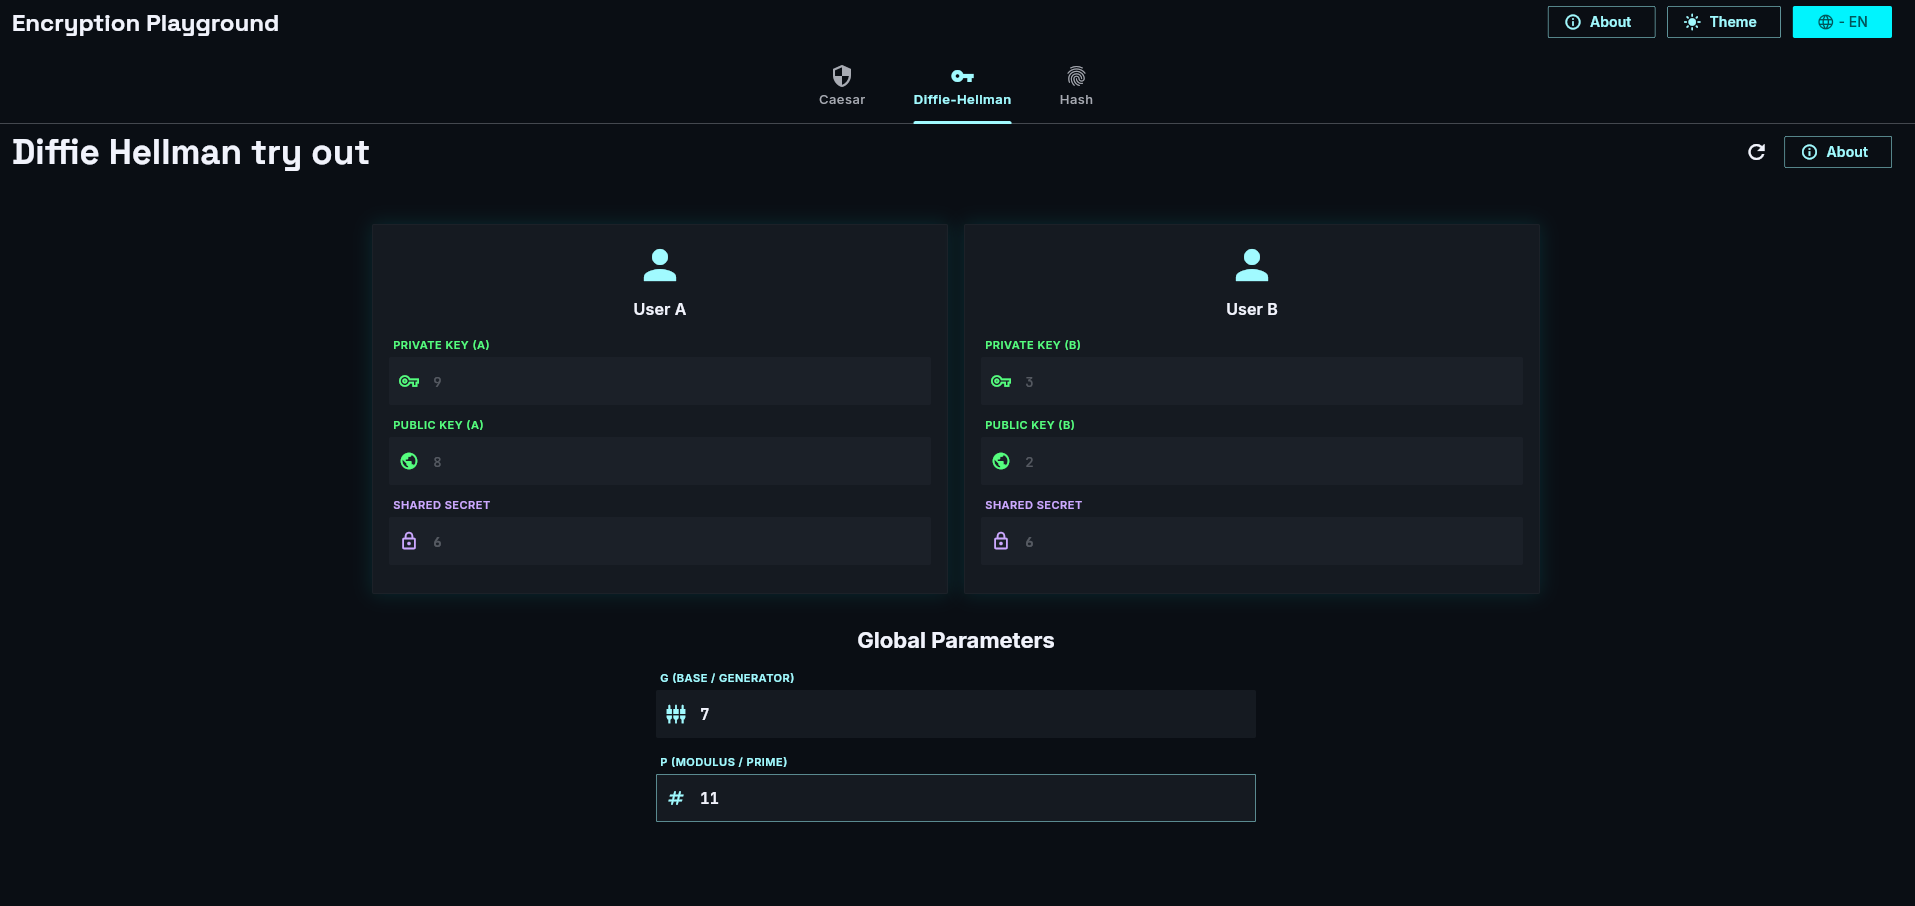
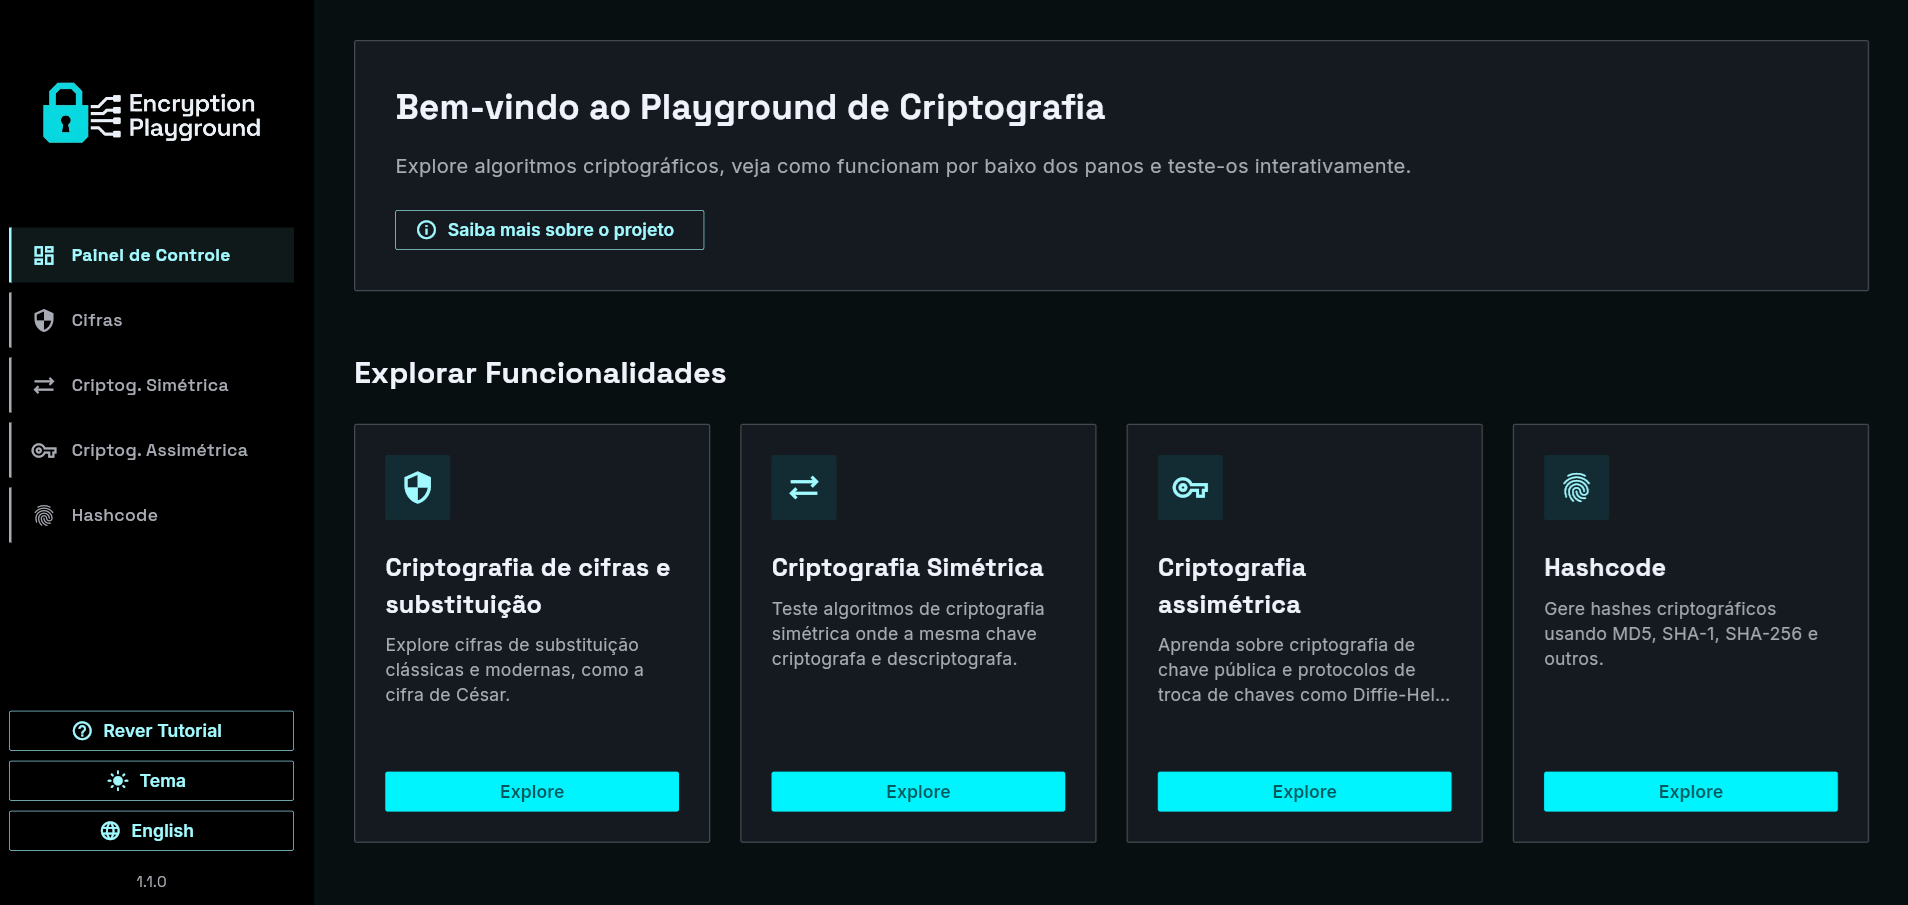
Correções nas documentações oficiais

diff --git a/README.md b/README.md
@@ -1,21 +1,23 @@
-# Encryption Playground - Overview
+# Encryption Playground 🔐
+
+[🇺🇸 English](README.md) | [🇧🇷 Português](README-PT.md)
 
 Encryption Playground is an educational Flutter application designed to demonstrate fundamental cryptographic concepts through interactive experiences. It provides users with a hands-on laboratory to experiment with historical and modern encryption algorithms.
 
-# Project Motivation
+For detailed technical information on how the Flutter project is structured, please see the [Flutter Project README](encryption_playground/README.md).
 
-During a Data Security class, the students were challenged to develop an implementation of the  Caesar Cipher in any framework of their preferences. During the development of the Caesar algorithm, the idea of an education app containing more encryption algorithms came up, and then I developed this simple and small App. 
+## Project Motivation
 
-# Features
+During a Data Security class, the students were challenged to develop an implementation of the Caesar Cipher in any framework of their preference. During the development of the Caesar algorithm, the idea of an education app containing more encryption algorithms came up, and then I developed this simple and small App.
+
+## Features
 
 ### 1. Caesar Cipher
-
 - **Educational Content**: Information about the history and mechanics of the Julius Caesar substitution cipher.
 - **Interactive Simulation**: Encrypt and decrypt messages using custom shift keys.
 - **Real-time Feedback**: Immediate visualization of character transformations.
 
 ### 2. Diffie-Hellman Key Exchange
-
 - **Core Concept**: Demonstration of how two parties (User A & User B) establish a shared secret over an insecure channel.
 - **Interactive Simulation**:
     - Configuration of global parameters (Generator and Modulus).
@@ -23,7 +25,6 @@ During a Data Security class, the students were challenged to develop an impleme
     - Verification of the shared secret derivation on both sides.
 
 ### 3. Hash Functions
-
 - **Integrity Verification**: Comparison of inputs to demonstrate the "Avalanche Effect" (where small input changes result in vastly different outputs).
 - **Algorithm Comparison**: Support for multiple hashing methods including:
     - Default Dart HashCode
@@ -31,12 +32,11 @@ During a Data Security class, the students were challenged to develop an impleme
     - SHA-256
 
 ### 4. User Interface and Experience
-
 - **Dynamic Theming**: Full implementation of Dark Mode (Primary) and Light Mode (Secondary) based on structured design tokens.
 - **Internationalization**: Seamless switching between English and Portuguese (PT-BR).
 - **Responsive Design**: Clean, tab-based navigation optimized for mobile and desktop views.
 
-# Concepts Covered
+## Concepts Covered
 
 - Symmetric Encryption
 - Key Exchange Protocols
@@ -44,38 +44,12 @@ During a Data Security class, the students were challenged to develop an impleme
 - Avalanche Effect
 - Data Integrity vs Confidentiality
 
-# Technical Stack
+## How to Run
 
-The project leverages modern Flutter development patterns and libraries:
+You can access the Vercel website: [https://flutter-encryption-playground.vercel.app/](https://flutter-encryption-playground.vercel.app/).
+Or you can clone into your remote and test on a mobile emulator by running the code inside the `encryption_playground` directory.
 
-- **State Management**: Implemented using the **Provider** package for efficient reactive updates.
-- **Architecture**: Follows **Feature-First** and **Clean Architecture** patterns, separating the codebase into Domain and Presentation layers.
-- **Domain Logic**: Use of **Use Cases** to encapsulate business rules and encryption algorithms, promoting testability and reusability.
-- **Internationalization (i18n)**: Utilizes `flutter_localizations` and ARB files for multi-language support.
-- **Theme Management**: centralized `ThemeData` configuration consuming custom [AppColors](lib/app/theme/app_colors.dart) tokens for consistent styling across brightness modes.
-- **Navigation**: Structured using **Navigator 1.0** with feature-scoped **Navigation Services** to decouple UI from routing logic.
-- **Dependency Injection**: Basic dependency management via Provider and bootstrap injectors.
-- **Input Handling**: Robust handling of hardware and software keyboards with form validation and real-time text processing.
-
-# Project Structure
-
-```
-lib/
-├── app/                # Core configuration (Theme, Locale, Routes, Bootstrap)
-├── features/           # Feature-based modular architecture
-│   ├── caesar/         # Caesar Cipher implementation
-│   ├── diffie_hellman/ # Key exchange simulation logic
-│   ├── hash/           # Hashing algorithms and comparison tools
-│   └── home/           # Root navigation and dashboard
-└── l10n/               # ARB localization resources
-```
-
-# How to Run
-
-You can acess the vercel website: [https://flutter-encryption-playground.vercel.app/](https://flutter-encryption-playground.vercel.app/).
-Or you can clone into your remote and test on a mobile emulator. 
-
-# Screenshots
+## Screenshots
 
 ![image.png](/docs/images/image.png)
 
@@ -83,7 +57,7 @@ Or you can clone into your remote and test on a mobile emulator.
 
 ![image.png](/docs/images/image%202.png)    
 
-# Future Improvements
+## Future Improvements
 
 - Addition of the Vigenere Cipher
 - More improvements will be announced in the future

diff --git a/encryption_playground/README.md b/encryption_playground/README.md
@@ -1,16 +1,70 @@
-# encryption_playground
+# Flutter Project Structure - Encryption Playground
 
-A new Flutter project.
+[🇺🇸 English](README.md) | [🇧🇷 Português](README-PT.md)
 
-## Getting Started
+This directory contains the actual Flutter application source code.
 
-This project is a starting point for a Flutter application.
+## Technical Stack
 
-A few resources to get you started if this is your first Flutter project:
+The project leverages modern Flutter development patterns and libraries:
 
-- [Lab: Write your first Flutter app](https://docs.flutter.dev/get-started/codelab)
-- [Cookbook: Useful Flutter samples](https://docs.flutter.dev/cookbook)
+- **State Management**: Implemented using the **Provider** package for efficient reactive updates.
+- **Architecture**: Follows **Feature-First** and **Clean Architecture** patterns, separating the codebase into Domain and Presentation layers.
+- **Domain Logic**: Use of **Use Cases** to encapsulate business rules and encryption algorithms, promoting testability and reusability.
+- **Internationalization (i18n)**: Utilizes `flutter_localizations` and ARB files for multi-language support.
+- **Theme Management**: Centralized `ThemeData` configuration consuming custom AppColors tokens for consistent styling across brightness modes.
+- **Navigation**: Structured using **Navigator 1.0** with feature-scoped **Navigation Services** to decouple UI from routing logic.
+- **Dependency Injection**: Basic dependency management via Provider and bootstrap injectors.
+- **Input Handling**: Robust handling of hardware and software keyboards with form validation and real-time text processing.
 
-For help getting started with Flutter development, view the
-[online documentation](https://docs.flutter.dev/), which offers tutorials,
-samples, guidance on mobile development, and a full API reference.
+## Project Structure
+
+The structure is highly modular, following a feature-based approach:
+
+```text
+lib/
+├── app/                  # Core application configuration
+│   ├── app.dart          # Main application widget
+│   ├── app_bootstrap.dart# App initialization 
+│   ├── app_injector.dart # Dependency Injection setup
+│   ├── app_layout_config.dart # Responsive layout constants
+│   ├── app_routes.dart   # Route definitions
+│   ├── locale_controller.dart # Language selection state
+│   ├── package_info_service.dart # App package info
+│   └── theme_controller.dart  # Theme selection state
+├── features/             # Feature-based modular architecture
+│   ├── caesar/           # Caesar Cipher implementation
+│   ├── diffie_hellman/   # Key exchange simulation logic
+│   ├── hash/             # Hashing algorithms and comparison tools
+│   ├── home/             # Root navigation and dashboard
+│   └── onboarding/       # Initial onboarding flow
+├── l10n/                 # ARB localization resources
+├── shared/               # Shared components, themes, and utilities
+│   ├── guide/            # UI guidelines and typography
+│   ├── responsive/       # Responsive widgets and layouts
+│   ├── theme/            # Theme tokens, colors, and global styles
+│   └── widgets/          # Reusable UI components
+└── main.dart             # Application entry point
+```
+
+## Running the App
+
+To run the application locally:
+
+1. Ensure you have Flutter installed and configured.
+2. Navigate to this directory (`encryption_playground`).
+3. Fetch the dependencies:
+   ```bash
+   flutter pub get
+   ```
+4. Run the app:
+   ```bash
+   flutter run
+   ```
+
+## Running Tests
+
+To run unit and widget tests:
+```bash
+flutter test
+```

diff --git a/encryption_playground/README-PT.md b/encryption_playground/README-PT.md
@@ -1,0 +1,70 @@
+# Estrutura do Projeto Flutter - Encryption Playground
+
+[🇺🇸 English](README.md) | [🇧🇷 Português](README-PT.md)
+
+Este diretório contém o código-fonte real do aplicativo Flutter.
+
+## Tecnologias Utilizadas
+
+O projeto aproveita padrões e bibliotecas modernas de desenvolvimento Flutter:
+
+- **Gerenciamento de Estado**: Implementado usando o pacote **Provider** para atualizações reativas eficientes.
+- **Arquitetura**: Segue os padrões **Feature-First** (Orientado a Funcionalidades) e **Clean Architecture** (Arquitetura Limpa), separando o código em camadas de Domínio e Apresentação.
+- **Lógica de Domínio**: Uso de **Casos de Uso (Use Cases)** para encapsular regras de negócios e algoritmos de criptografia, promovendo testabilidade e reutilização.
+- **Internacionalização (i18n)**: Utiliza `flutter_localizations` e arquivos ARB para suporte a vários idiomas.
+- **Gerenciamento de Tema**: Configuração centralizada do `ThemeData` consumindo tokens AppColors personalizados para estilo consistente em diferentes modos de brilho.
+- **Navegação**: Estruturada usando **Navigator 1.0** com **Serviços de Navegação** com escopo de funcionalidade para desacoplar a interface gráfica da lógica de roteamento.
+- **Injeção de Dependência**: Gerenciamento básico de dependências via Provider e injetores de inicialização.
+- **Tratamento de Entrada**: Tratamento robusto de teclados de hardware e software com validação de formulário e processamento de texto em tempo real.
+
+## Estrutura do Projeto
+
+A estrutura é altamente modular, seguindo uma abordagem baseada em funcionalidades:
+
+```text
+lib/
+├── app/                  # Configuração central do aplicativo
+│   ├── app.dart          # Widget principal da aplicação
+│   ├── app_bootstrap.dart# Inicialização do App 
+│   ├── app_injector.dart # Configuração de Injeção de Dependências
+│   ├── app_layout_config.dart # Constantes de layout responsivo
+│   ├── app_routes.dart   # Definições de rotas
+│   ├── locale_controller.dart # Estado de seleção de idioma
+│   ├── package_info_service.dart # Informações do pacote do App
+│   └── theme_controller.dart  # Estado de seleção de tema
+├── features/             # Arquitetura modular baseada em funcionalidades
+│   ├── caesar/           # Implementação da Cifra de César
+│   ├── diffie_hellman/   # Lógica da simulação de troca de chaves
+│   ├── hash/             # Algoritmos de hash e ferramentas de comparação
+│   ├── home/             # Navegação raiz e painel principal (dashboard)
+│   └── onboarding/       # Fluxo de introdução inicial
+├── l10n/                 # Recursos de localização ARB
+├── shared/               # Componentes, temas e utilitários compartilhados
+│   ├── guide/            # Diretrizes de interface e tipografia
+│   ├── responsive/       # Widgets e layouts responsivos
+│   ├── theme/            # Tokens de tema, cores e estilos globais
+│   └── widgets/          # Componentes de interface reutilizáveis
+└── main.dart             # Ponto de entrada da aplicação
+```
+
+## Executando o Aplicativo
+
+Para rodar o aplicativo localmente:
+
+1. Certifique-se de que você tem o Flutter instalado e configurado.
+2. Navegue até este diretório (`encryption_playground`).
+3. Baixe as dependências:
+   ```bash
+   flutter pub get
+   ```
+4. Execute o app:
+   ```bash
+   flutter run
+   ```
+
+## Executando Testes
+
+Para executar testes unitários e de widgets:
+```bash
+flutter test
+```

diff --git a/README-PT.md b/README-PT.md
@@ -1,0 +1,63 @@
+# Encryption Playground 🔐
+
+[🇺🇸 English](README.md) | [🇧🇷 Português](README-PT.md)
+
+O Encryption Playground é um aplicativo educacional em Flutter projetado para demonstrar conceitos criptográficos fundamentais através de experiências interativas. Ele fornece aos usuários um laboratório prático para experimentar algoritmos de criptografia históricos e modernos.
+
+Para informações técnicas detalhadas sobre como o projeto Flutter está estruturado, consulte o [README do Projeto Flutter](encryption_playground/README-PT.md).
+
+## Motivação do Projeto
+
+Durante uma aula de Segurança de Dados, os alunos foram desafiados a desenvolver uma implementação da Cifra de César em qualquer framework de sua preferência. Durante o desenvolvimento do algoritmo de César, surgiu a ideia de um aplicativo educacional contendo mais algoritmos de criptografia, e então eu desenvolvi este aplicativo simples e pequeno.
+
+## Funcionalidades
+
+### 1. Cifra de César
+- **Conteúdo Educacional**: Informações sobre a história e mecânica da cifra de substituição de Júlio César.
+- **Simulação Interativa**: Criptografe e descriptografe mensagens usando chaves de deslocamento personalizadas.
+- **Feedback em Tempo Real**: Visualização imediata das transformações de caracteres.
+
+### 2. Troca de Chaves Diffie-Hellman
+- **Conceito Central**: Demonstração de como duas partes (Usuário A e Usuário B) estabelecem um segredo compartilhado sobre um canal inseguro.
+- **Simulação Interativa**:
+    - Configuração de parâmetros globais (Gerador e Módulo).
+    - Visualização do cálculo e troca de chaves públicas.
+    - Verificação da derivação do segredo compartilhado em ambos os lados.
+
+### 3. Funções de Hash
+- **Verificação de Integridade**: Comparação de entradas para demonstrar o "Efeito Avalanche" (onde pequenas mudanças na entrada resultam em saídas vastamente diferentes).
+- **Comparação de Algoritmos**: Suporte para vários métodos de hash, incluindo:
+    - Default Dart HashCode
+    - SHA-1
+    - SHA-256
+
+### 4. Interface de Usuário e Experiência
+- **Temas Dinâmicos**: Implementação completa de Modo Escuro (Primário) e Modo Claro (Secundário) baseada em tokens de design estruturados.
+- **Internacionalização**: Alternância perfeita entre Inglês e Português (PT-BR).
+- **Design Responsivo**: Navegação limpa baseada em abas otimizada para visualizações móveis e desktop.
+
+## Conceitos Abordados
+
+- Criptografia Simétrica
+- Protocolos de Troca de Chaves
+- Funções de Hash Unidirecionais
+- Efeito Avalanche
+- Integridade de Dados vs Confidencialidade
+
+## Como Executar
+
+Você pode acessar o site na Vercel: [https://flutter-encryption-playground.vercel.app/](https://flutter-encryption-playground.vercel.app/).
+Ou você pode clonar em seu ambiente remoto e testar em um emulador móvel rodando o código dentro do diretório `encryption_playground`.
+
+## Telas
+
+![image.png](/docs/images/image.png)
+
+![image.png](/docs/images/image%201.png)
+
+![image.png](/docs/images/image%202.png)    
+
+## Melhorias Futuras
+
+- Adição da Cifra de Vigenère
+- Mais melhorias serão anunciadas no futuro
